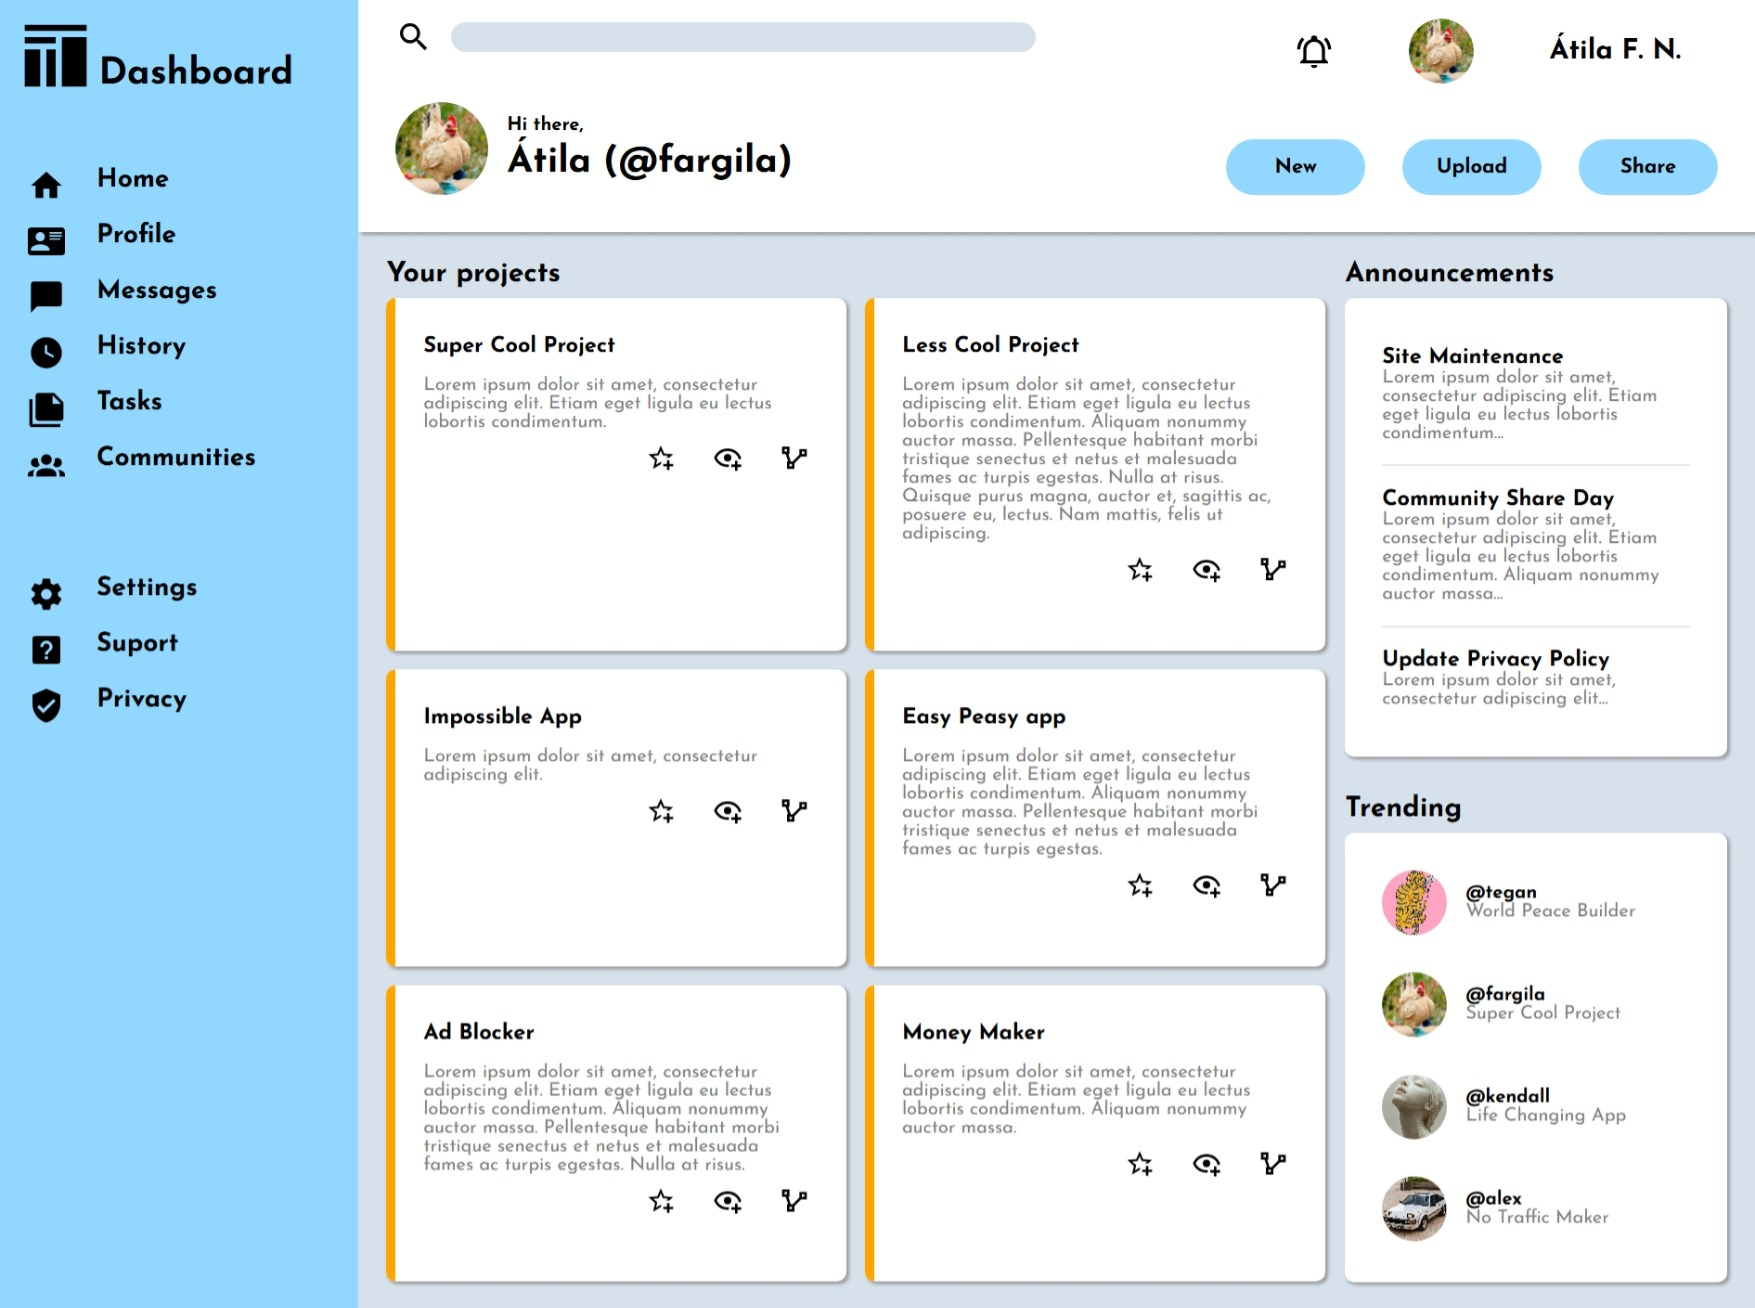
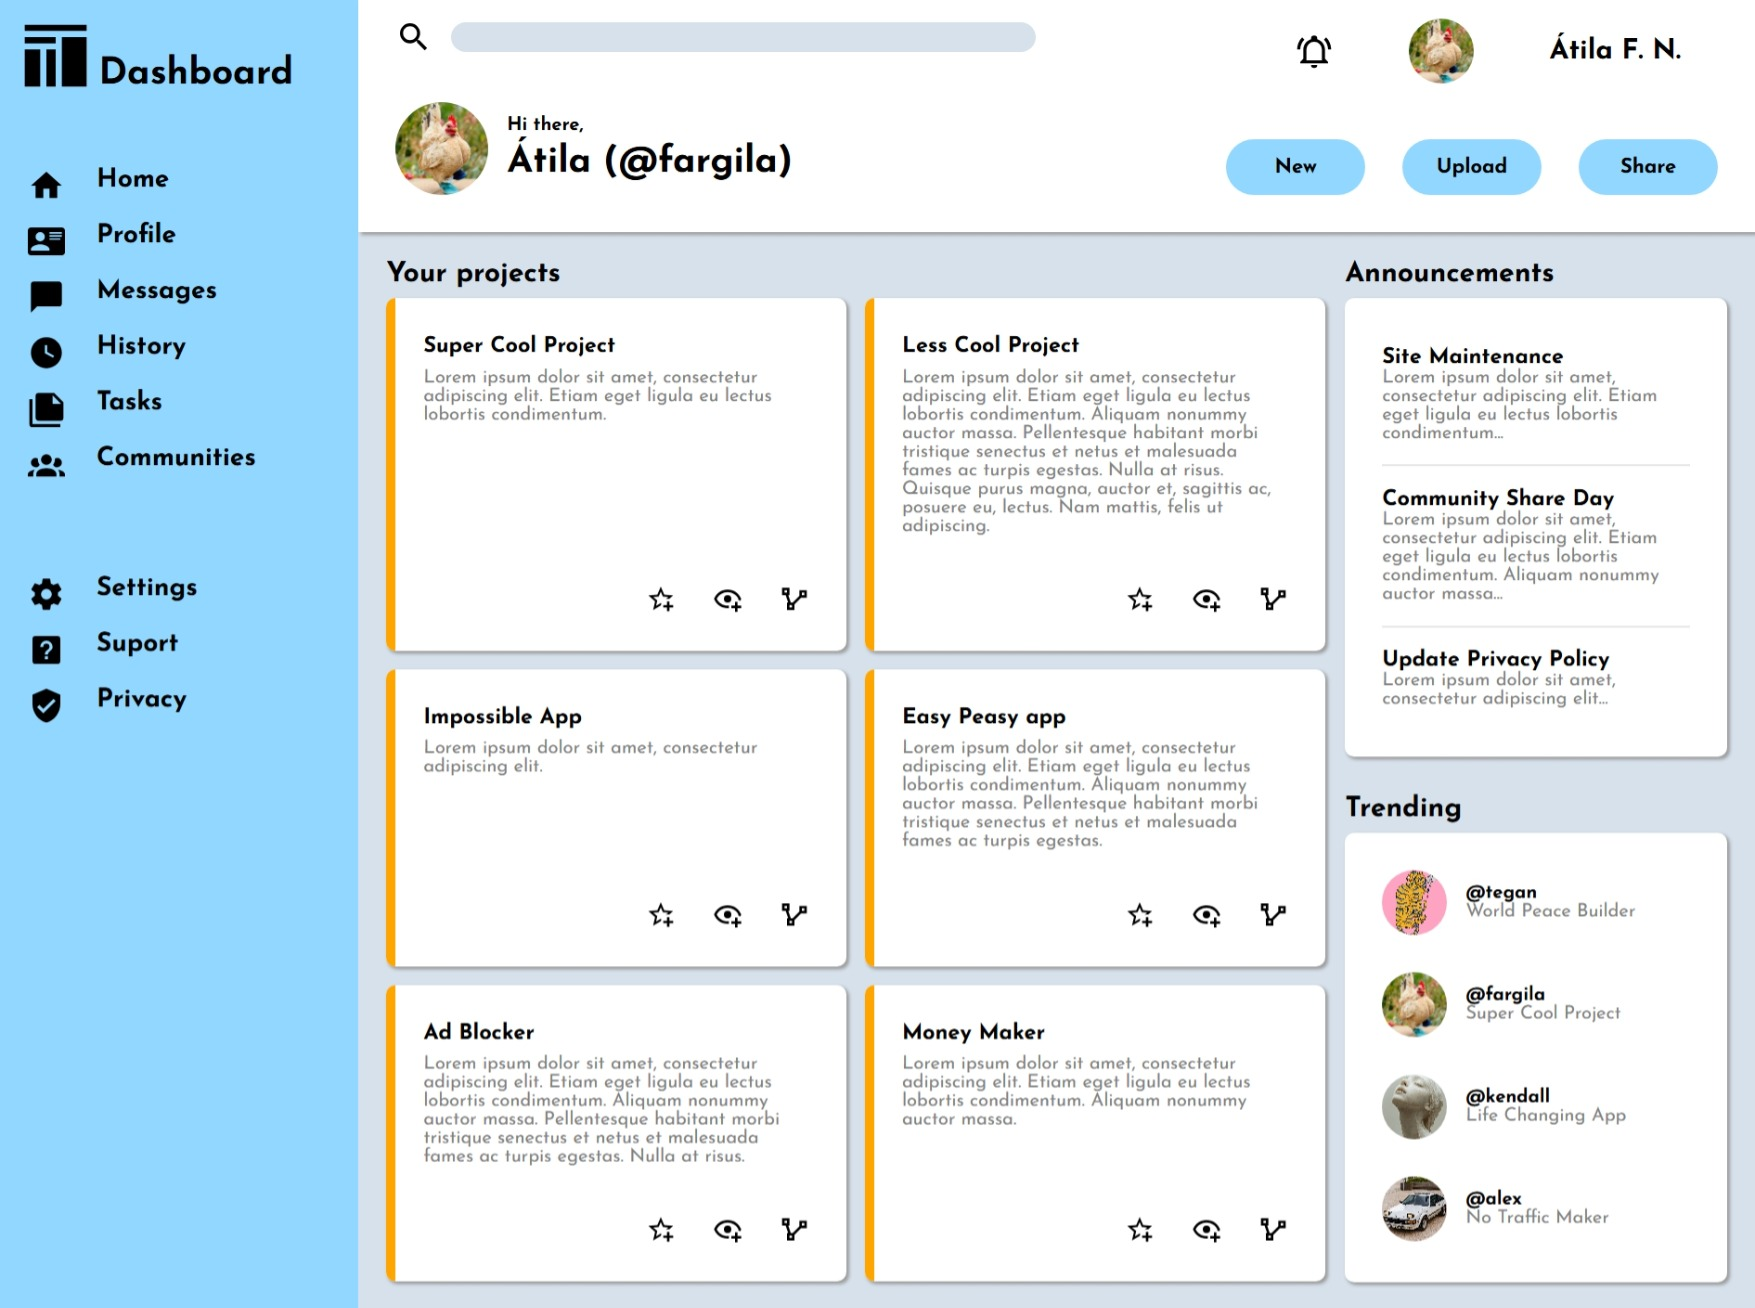
fix: buttons below the card were off.

diff --git a/index.html b/index.html
@@ -97,13 +97,15 @@
                     <div class="project-card">
                         <div class="orange-line"></div>
                         <div class="main-content-card">
-                            <h3>Super Cool Project</h3>
-                            <div class="card-text">
-                                <div>
-                                    <p>
-                                        Lorem ipsum dolor sit amet, consectetur adipiscing elit.
-                                        Etiam eget ligula eu lectus lobortis condimentum.
-                                    </p>
+                            <div>
+                                <h3>Super Cool Project</h3>
+                                <div class="card-text">
+                                    <div>
+                                        <p>
+                                            Lorem ipsum dolor sit amet, consectetur adipiscing elit.
+                                            Etiam eget ligula eu lectus lobortis condimentum.
+                                        </p>
+                                    </div>
                                 </div>
                             </div>
                             <div class="card-btns">
@@ -116,18 +118,20 @@
                     <div class="project-card">
                         <div class="orange-line"></div>
                         <div class="main-content-card">
-                            <h3>Less Cool Project</h3>
-                            <div class="card-text">
-                                <div>
-                                   
-                                    <p>
-                                        Lorem ipsum dolor sit amet, consectetur adipiscing elit.
-                                        Etiam eget ligula eu lectus lobortis condimentum.
-                                        Aliquam nonummy auctor massa. Pellentesque habitant morbi
-                                        tristique senectus et netus et malesuada fames ac turpis
-                                        egestas. Nulla at risus. Quisque purus magna, auctor et,
-                                        sagittis ac, posuere eu, lectus. Nam mattis, felis ut adipiscing.
-                                    </p>
+                            <div>
+                                <h3>Less Cool Project</h3>
+                                <div class="card-text">
+                                    <div>
+                                    
+                                        <p>
+                                            Lorem ipsum dolor sit amet, consectetur adipiscing elit.
+                                            Etiam eget ligula eu lectus lobortis condimentum.
+                                            Aliquam nonummy auctor massa. Pellentesque habitant morbi
+                                            tristique senectus et netus et malesuada fames ac turpis
+                                            egestas. Nulla at risus. Quisque purus magna, auctor et,
+                                            sagittis ac, posuere eu, lectus. Nam mattis, felis ut adipiscing.
+                                        </p>
+                                    </div>
                                 </div>
                             </div>
                             <div class="card-btns">
@@ -140,12 +144,14 @@
                     <div class="project-card">
                         <div class="orange-line"></div>
                         <div class="main-content-card">
-                            <h3>Impossible App</h3>
-                            <div class="card-text">
-                                <div>
-                                    <p>
-                                        Lorem ipsum dolor sit amet, consectetur adipiscing elit.
-                                    </p>
+                            <div>
+                                <h3>Impossible App</h3>
+                                <div class="card-text">
+                                    <div>
+                                        <p>
+                                            Lorem ipsum dolor sit amet, consectetur adipiscing elit.
+                                        </p>
+                                    </div>
                                 </div>
                             </div>
                             <div class="card-btns">
@@ -158,16 +164,18 @@
                     <div class="project-card">
                         <div class="orange-line"></div>
                         <div class="main-content-card">
-                            <h3>Easy Peasy app</h3>
-                            <div class="card-text">
-                                <div>
-                                    <p>
-                                        Lorem ipsum dolor sit amet, consectetur adipiscing elit.
-                                        Etiam eget ligula eu lectus lobortis condimentum.
-                                        Aliquam nonummy auctor massa. Pellentesque habitant morbi
-                                        tristique senectus et netus et malesuada fames ac turpis
-                                        egestas.
-                                    </p>
+                            <div>
+                                <h3>Easy Peasy app</h3>
+                                <div class="card-text">
+                                    <div>
+                                        <p>
+                                            Lorem ipsum dolor sit amet, consectetur adipiscing elit.
+                                            Etiam eget ligula eu lectus lobortis condimentum.
+                                            Aliquam nonummy auctor massa. Pellentesque habitant morbi
+                                            tristique senectus et netus et malesuada fames ac turpis
+                                            egestas.
+                                        </p>
+                                    </div>
                                 </div>
                             </div>
                             <div class="card-btns">
@@ -180,16 +188,18 @@
                     <div class="project-card">
                         <div class="orange-line"></div>
                         <div class="main-content-card">
-                            <h3>Ad Blocker</h3>
-                            <div class="card-text">
-                                <div>
-                                    <p>
-                                        Lorem ipsum dolor sit amet, consectetur adipiscing elit.
-                                        Etiam eget ligula eu lectus lobortis condimentum.
-                                        Aliquam nonummy auctor massa. Pellentesque habitant morbi
-                                        tristique senectus et netus et malesuada fames ac turpis
-                                        egestas. Nulla at risus.
-                                    </p>
+                            <div>
+                                <h3>Ad Blocker</h3>
+                                <div class="card-text">
+                                    <div>
+                                        <p>
+                                            Lorem ipsum dolor sit amet, consectetur adipiscing elit.
+                                            Etiam eget ligula eu lectus lobortis condimentum.
+                                            Aliquam nonummy auctor massa. Pellentesque habitant morbi
+                                            tristique senectus et netus et malesuada fames ac turpis
+                                            egestas. Nulla at risus.
+                                        </p>
+                                    </div>
                                 </div>
                             </div>
                             <div class="card-btns">
@@ -202,14 +212,16 @@
                     <div class="project-card">
                         <div class="orange-line"></div>
                         <div class="main-content-card">
-                            <h3>Money Maker</h3>
-                            <div class="card-text">
-                                <div>
-                                    <p>
-                                        Lorem ipsum dolor sit amet, consectetur adipiscing elit.
-                                        Etiam eget ligula eu lectus lobortis condimentum.
-                                        Aliquam nonummy auctor massa.
-                                    </p>
+                            <div>
+                                <h3>Money Maker</h3>
+                                <div class="card-text">
+                                    <div>
+                                        <p>
+                                            Lorem ipsum dolor sit amet, consectetur adipiscing elit.
+                                            Etiam eget ligula eu lectus lobortis condimentum.
+                                            Aliquam nonummy auctor massa.
+                                        </p>
+                                    </div>
                                 </div>
                             </div>
                             <div class="card-btns">

diff --git a/styles/mobile.css b/styles/mobile.css
@@ -23,6 +23,11 @@
         opacity: 80%;
     }
 
+    #search-btn {
+        width: 3rem;
+        height: 3rem;
+    }
+
     #btn-mobile-sidebar > img {
         width: 2rem;
     }
@@ -101,13 +106,14 @@
     }
 
     #user-nav-btn {
+        margin-right: 0;
         width: 4rem;
         height: 4rem;
     }
  
     #user-notif {
-        width: 2.5rem;
-        height: 2.5rem;
+        width: 2rem;
+        height: 2rem;
      }
 
     #nav-btns {

diff --git a/styles/styles.css b/styles/styles.css
@@ -232,12 +232,13 @@ body {
 .main-content-card {
     display: flex;
     flex-direction: column;
-    justify-content: flex-start;
+    justify-content: space-between;
     padding: 2rem;
+    width: 100%;
 }
 
-.main-content-card > h3 {
-    margin-bottom: 1rem;
+.main-content-card > div > h3 {
+    margin-bottom: .5em;
 }
 
 .card-text {
